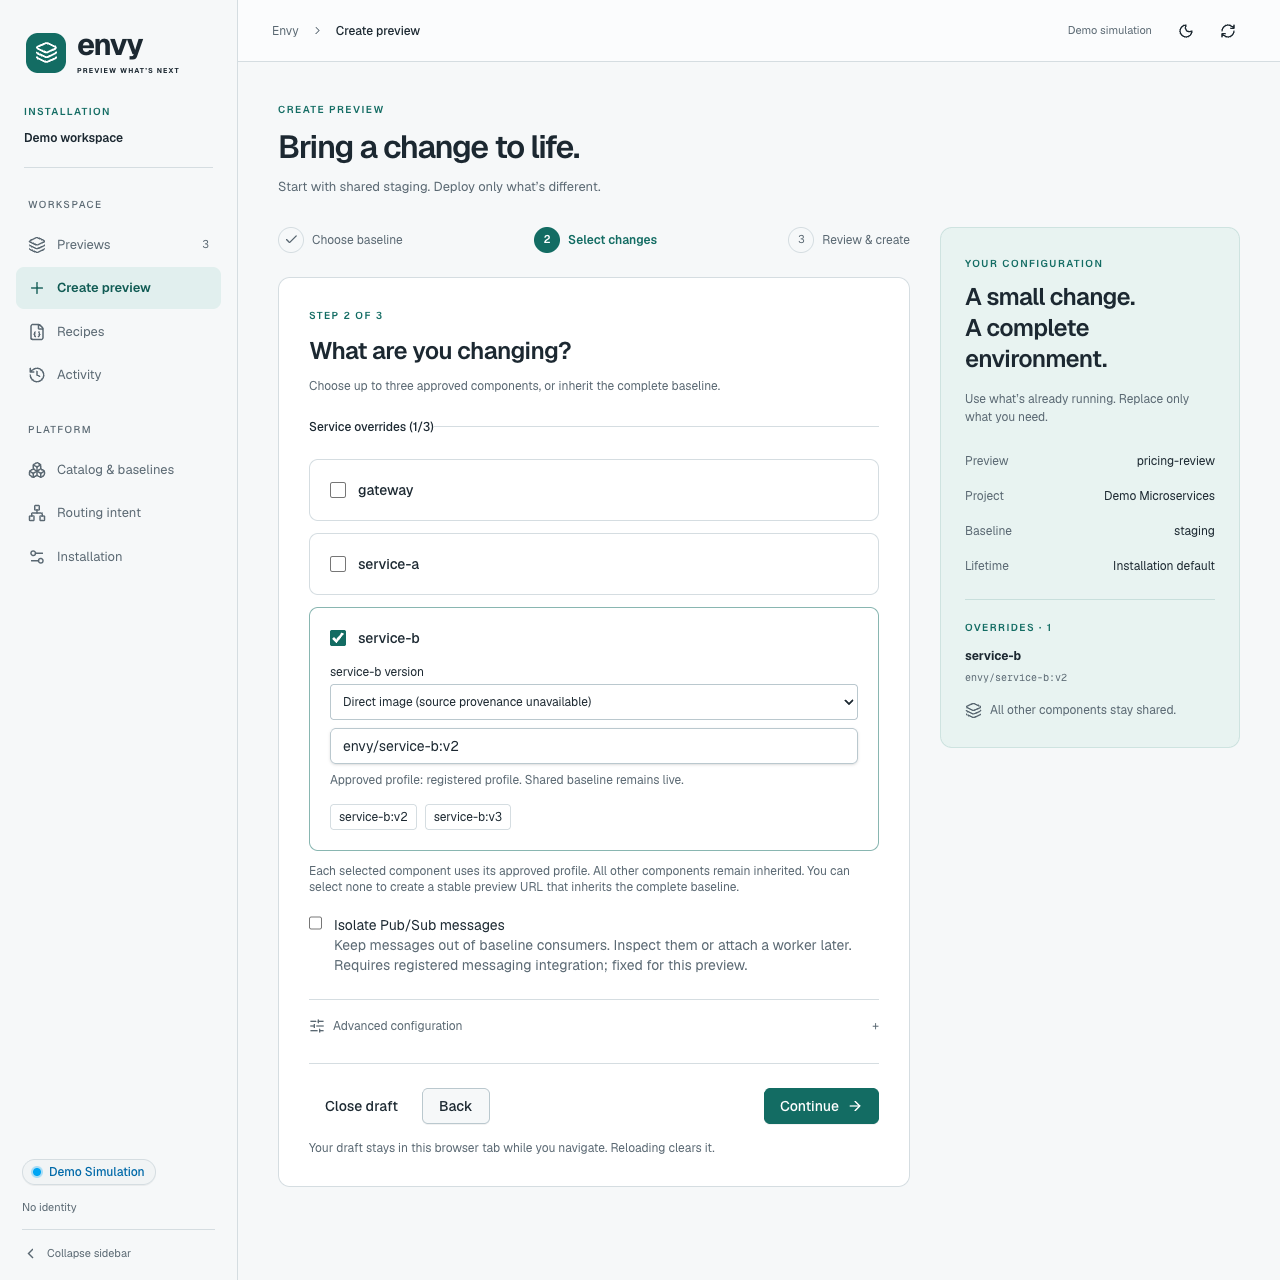
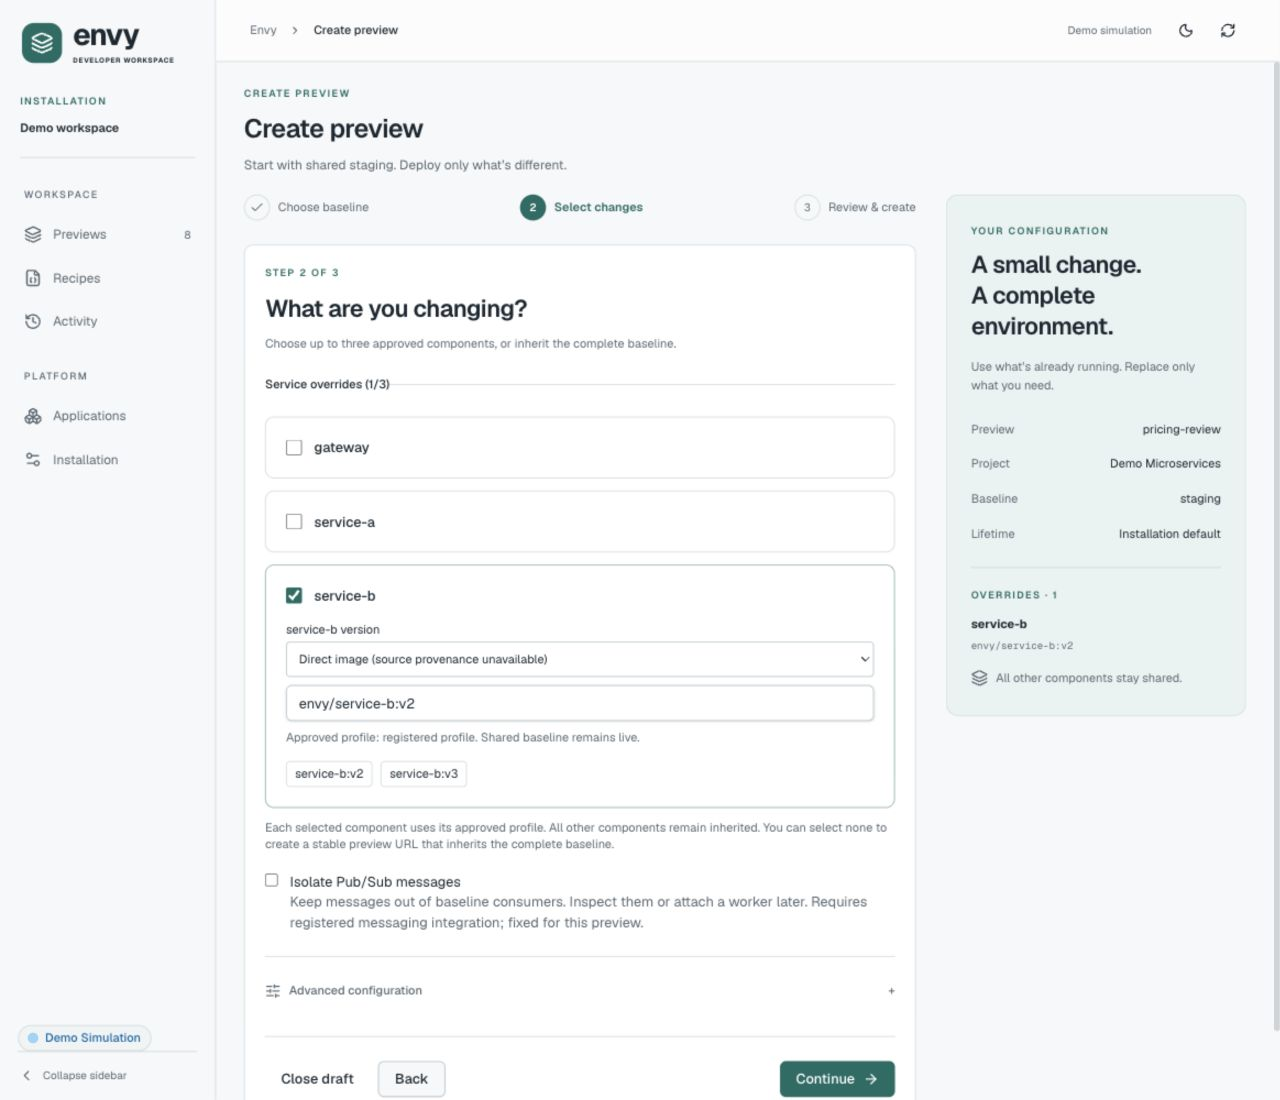
docs

diff --git a/site/src/content/docs/guides/web-interface.md b/site/src/content/docs/guides/web-interface.md
@@ -23,7 +23,7 @@ Turn off Demo simulation when you want to work with the live API. The simulator 
 
 ## Onboard your application
 
-In Live Mode, choose **Catalog & baselines → Onboard application**. Describe the
+In Live Mode, choose **Applications → Onboard application**. Describe the
 existing baseline, choose deployment-derived or manual HTTP profiles, validate,
 and explicitly register. Then discover and approve any deployment-derived
 services before opening the preview creation flow. See the
@@ -31,27 +31,31 @@ services before opening the preview creation flow. See the
 for fields, permissions, and verification semantics.
 
 Registration saves the baseline without creating workloads. Resume saved setup
-from **Prepare overrides** on its Catalog card. During the first two onboarding
+from **Prepare overrides** on its Applications card. During the first two onboarding
 steps, **Save preparation** stores non-secret fields for **Load saved
 preparation** after a reload; environment values must be re-entered. Unsaved
 edits are discarded when you leave onboarding. The JSON editor remains under
 **Advanced registration**.
 
+[![Applications page showing the Onboard application action, registered baseline, and approved component profiles in Demo simulation.](/images/web-interface/applications.png)](/images/web-interface/applications.png)
+
+The screenshot shows where onboarding starts; opening the wizard requires Live Mode.
+
 ## Find and open a preview
 
 Select **Previews** in the workspace navigation.
 
-[![Preview list showing ready and provisioning cards, changed services, remaining lifetime, search, filters, and Open preview actions.](/images/web-interface/previews.png)](/images/web-interface/previews.png)
+[![Preview list showing ready and provisioning cards, changed services, remaining lifetime, search, filters, and Open API actions.](/images/web-interface/previews.png)](/images/web-interface/previews.png)
 
 1. Search by preview name, component, or image. Use **Ready**, **In progress**, or **Needs attention** to narrow the list; **All** also includes terminated previews.
 2. Read the changed services, readiness message, and remaining lifetime on each card. Use the layout buttons to switch between cards and rows.
-3. Select a **preview name** to inspect it. Select **Open preview** to visit its endpoint, or copy the URL to share it with a teammate who has access.
+3. Select a **preview name** to inspect it. Select **Open API** to visit its endpoint, or copy the URL to share it with a teammate who has access.
 
 **Endpoint ready · routing unverified** means endpoint readiness has been reported, but request routing and context propagation have not been verified. Do not treat endpoint reachability as proof that every request reached the intended overridden services.
 
 ## Create a preview
 
-Select **New preview** or **Create preview** in the navigation. The configuration summary follows your choices through all three steps.
+Select **New preview** from the preview list or the Applications toolbar. The configuration summary follows your choices through all three steps.
 
 ### 1. Choose baseline
 
@@ -71,11 +75,12 @@ You can select up to three components, or select none to inherit the complete ba
 
 ### 3. Review and create
 
-Check the name, baseline, service versions, and lifetime in the summary. The
-server plan shows selected and inherited workloads, approved revisions,
-destination, resource estimate, and any blocker with a next action. Refresh it
-after changing a selection. Planning reserves no capacity; Envy checks the
-contract again at creation. Use **Back** to correct a choice, then select
+Check the name, baseline, service versions, and lifetime in the summary. In
+Live Mode, the server plan also shows selected and inherited workloads,
+approved revisions, destination, resource estimate, and any blocker with a
+next action. Refresh it after changing a selection. Demo simulation shows the
+summary without a live server plan. Planning reserves no capacity; Envy checks
+the contract again at creation. Use **Back** to correct a choice, then select
 **Create preview** to submit it.
 
 [![Review and create step summarizing the service-b override, shared baseline behavior, and final Create preview button.](/images/web-interface/create-review.png)](/images/web-interface/create-review.png)
@@ -86,7 +91,7 @@ In Live Mode, submission creates a composition and starts provisioning. Follow i
 
 Select a preview name from the list to open its workspace.
 
-[![Preview Overview with the endpoint, Open preview button, generation, remaining lifetime, and an explicit routing-unverified message.](/images/web-interface/preview-detail.png)](/images/web-interface/preview-detail.png)
+[![Preview Overview showing the API endpoint, requested and observed revisions, remaining lifetime, routing-unverified status, and unavailable live diagnosis in Demo simulation.](/images/web-interface/preview-detail.png)](/images/web-interface/preview-detail.png)
 
 The detail page separates four tasks:
 
@@ -113,13 +118,13 @@ reachability, not every downstream route. See
 
 - **Update preview** changes an existing preview's selected revisions and override membership, including returning all services to baseline inheritance. It keeps the URL and original expiry. After submitting an update, follow the new generation and readiness before testing again.
 - **Destroy** removes the preview when testing is complete. Check the preview name in the confirmation before proceeding; the shared baseline remains available.
-- **Catalog & baselines** groups catalog information, sources, and registration under platform administration.
+- **Applications** groups catalog information, sources, and registration under platform administration.
 - **Installation** separates read-only server configuration, browser appearance preferences, and local development connections.
 
 Everyday preview work stays under **Workspace** in the navigation; platform configuration stays under **Platform**.
 
-For label-driven PR environments, use **Catalog → Sources** to discover installed
-GitHub repositories and **Catalog → GitHub** to configure policies, inspect webhook
+For label-driven PR environments, use **Applications → Sources** to discover installed
+GitHub repositories and **Applications → GitHub** to configure policies, inspect webhook
 health, and stop or restart previews. See [GitHub App & PR Previews](/integrations/github-app/)
 for permissions and setup. App-owned previews update automatically; generic updates
 are blocked, and destroying one also stops its automation.

diff --git a/site/src/content/docs/integrations/github-app.md b/site/src/content/docs/integrations/github-app.md
@@ -150,12 +150,12 @@ for registry access and local Kubernetes credential helpers.
 
 ## 3. Discover the repository and enable a policy
 
-In **Catalog → Sources**, choose **Discover installed repositories**, select the
+In **Applications → Sources**, choose **Discover installed repositories**, select the
 repository and register its approved component-to-image mappings. Discovery removes
 the need to type an installation ID manually. Components and the baseline must
 already exist in Envy; registration does not deploy a baseline or create Dockerfiles.
 
-In **Catalog → GitHub**, inspect App access and webhook health, then configure an
+In **Applications → GitHub**, inspect App access and webhook health, then configure an
 enabled preview policy with:
 
 - The registered project and source repository.
@@ -265,7 +265,7 @@ After expiry or explicit stop, use **Restart** or a newly observed remove/add la
 cycle to request another lifecycle. An outage is not treated as access revocation:
 new deployments wait, while existing TTLs continue.
 
-**Catalog → GitHub** provides preview status, stop and restart controls. Composition
+**Applications → GitHub** provides preview status, stop and restart controls. Composition
 details identify PR ownership, requested/deployed revision, pending reason and
 expiry. Generic composition updates cannot override controller-managed selections;
 generic deletion also records an explicit stop. Create a separate composition for
@@ -326,7 +326,7 @@ Signatures follow GitHub's
 [raw-body HMAC guidance](https://docs.github.com/en/webhooks/using-webhooks/validating-webhook-deliveries).
 
 Envy checks active work and performs periodic recovery discovery, by default every
-five minutes, so missed events or build wakeups can recover. Inspect **Catalog →
+five minutes, so missed events or build wakeups can recover. Inspect **Applications →
 GitHub**, `GET /v1/github/status`, preview reasons/feedback errors and Activity for
 last webhook receipt, reconciliation progress and lifecycle actions.
 

diff --git a/site/src/content/docs/integrations/github-local-testing.md b/site/src/content/docs/integrations/github-local-testing.md
@@ -196,7 +196,7 @@ The preview URL can remain local: hosted CI only needs to publish/report builds,
 not open the preview application in this test.
 
 Keep SSL verification enabled in GitHub. Under the App's **Advanced → Recent
-deliveries**, redeliver a ping and confirm `202`. Confirm the receipt in **Catalog →
+deliveries**, redeliver a ping and confirm `202`. Confirm the receipt in **Applications →
 GitHub**. Repeat the proxy boundary checks against the public origin before CI.
 
 [Cloudflare quick tunnels](https://developers.cloudflare.com/cloudflare-one/networks/connectors/cloudflare-tunnel/do-more-with-tunnels/trycloudflare/)

diff --git a/site/src/content/docs/getting-started/onboarding.md b/site/src/content/docs/getting-started/onboarding.md
@@ -21,7 +21,7 @@ For an existing Argo-managed application, use [deployment-derived onboarding](/i
 
 ## Guided dashboard onboarding
 
-In a connected dashboard, choose **Catalog & baselines → Onboard application**.
+In a connected dashboard, choose **Applications → Onboard application**.
 The flow is intended for a platform engineer who knows the existing Services and
 ingress and can arrange required permissions. Discovery inspects named,
 approved resources; it does not offer unrestricted cluster browsing or install
